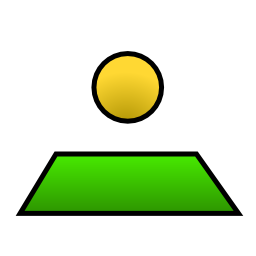
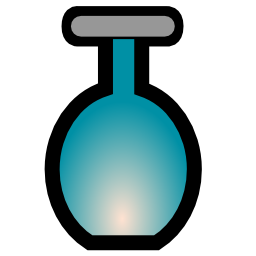
Revert "temporary: update test to use test03 collision shapes and image for testing"
This reverts commit 83423897fcb0a6e726ee5cf68ae5ad667836a31a.

diff --git a/loader-libgdx-demo/src/main/java/aurelienribon/bodyeditor/App.java b/loader-libgdx-demo/src/main/java/aurelienribon/bodyeditor/App.java
@@ -141,8 +141,8 @@ public class App extends ApplicationAdapter {
         bottleModel = world.createBody(bd);
 
         // 4. Create the body fixture automatically by using the loader.
-        loader.attachFixture(bottleModel, "test03", fd, BOTTLE_WIDTH);
-        bottleModelOrigin = loader.getOrigin("test03", BOTTLE_WIDTH);
+        loader.attachFixture(bottleModel, "test01", fd, BOTTLE_WIDTH);
+        bottleModelOrigin = loader.getOrigin("test01", BOTTLE_WIDTH);
     }
 
     private void createBalls() {
